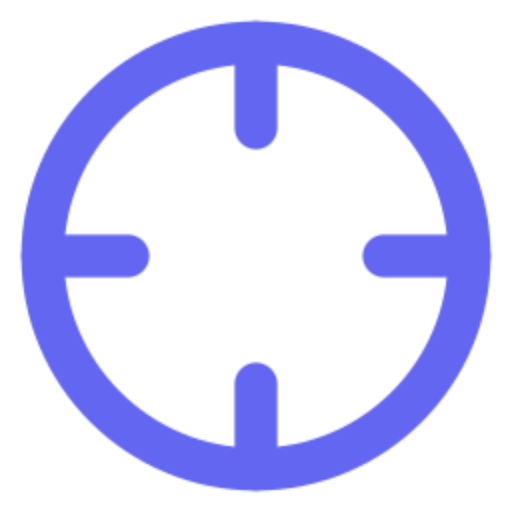
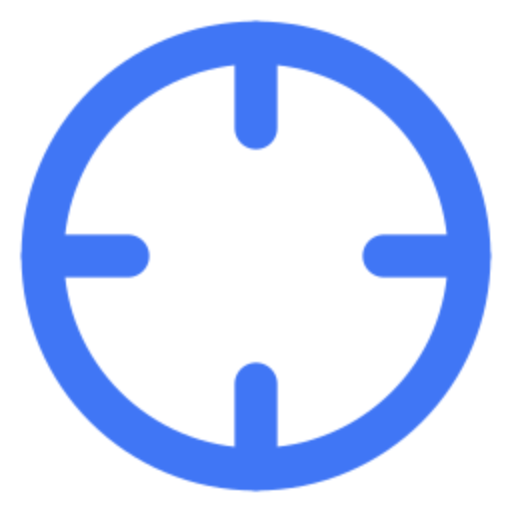
chore: update brand color from indigo to blue and upgrade lucide-react
- Update primary brand color from #6366F1 (indigo) to #4076F5 (blue)
- Upgrade lucide-react from 0.577.0 to 1.8.0
- Replace inline SVG crosshair icons with Crosshair component from lucide-react
- Regenerate all app icons with new brand color
- Update Clerk theme primary color
- Update print stylesheet to preserve new brand color
- Add test-crosshair.html for visual testing of icon variations

Changed region(s): [[0.0312, 0.0312, 0.9688, 0.9688]]

diff --git a/test-crosshair.html b/test-crosshair.html
@@ -1,0 +1,58 @@
+<!DOCTYPE html>
+<html>
+<head>
+<style>
+body { background: #000; padding: 20px; }
+.test { margin: 20px 0; }
+</style>
+</head>
+<body>
+<!-- Original with round caps -->
+<div class="test">
+  <svg width="24" height="24" viewBox="0 0 24 24" fill="none" stroke="white" stroke-width="2" stroke-linecap="round" stroke-linejoin="round">
+    <circle cx="12" cy="12" r="10"></circle>
+    <line x1="22" x2="18" y1="12" y2="12"></line>
+    <line x1="6" x2="2" y1="12" y2="12"></line>
+    <line x1="12" x2="12" y1="6" y2="2"></line>
+    <line x1="12" x2="12" y1="22" y2="18"></line>
+  </svg>
+  <span style="color: white; margin-left: 10px;">With round caps (original)</span>
+</div>
+
+<!-- With butt caps -->
+<div class="test">
+  <svg width="24" height="24" viewBox="0 0 24 24" fill="none" stroke="white" stroke-width="2" stroke-linecap="butt" stroke-linejoin="round">
+    <circle cx="12" cy="12" r="10"></circle>
+    <line x1="22" x2="18" y1="12" y2="12"></line>
+    <line x1="6" x2="2" y1="12" y2="12"></line>
+    <line x1="12" x2="12" y1="6" y2="2"></line>
+    <line x1="12" x2="12" y1="22" y2="18"></line>
+  </svg>
+  <span style="color: white; margin-left: 10px;">With butt caps</span>
+</div>
+
+<!-- With square caps -->
+<div class="test">
+  <svg width="24" height="24" viewBox="0 0 24 24" fill="none" stroke="white" stroke-width="2" stroke-linecap="square" stroke-linejoin="round">
+    <circle cx="12" cy="12" r="10"></circle>
+    <line x1="22" x2="18" y1="12" y2="12"></line>
+    <line x1="6" x2="2" y1="12" y2="12"></line>
+    <line x1="12" x2="12" y1="6" y2="2"></line>
+    <line x1="12" x2="12" y1="22" y2="18"></line>
+  </svg>
+  <span style="color: white; margin-left: 10px;">With square caps</span>
+</div>
+
+<!-- Smaller size to emphasize the effect -->
+<div class="test">
+  <svg width="12" height="12" viewBox="0 0 24 24" fill="none" stroke="white" stroke-width="2" stroke-linecap="round" stroke-linejoin="round">
+    <circle cx="12" cy="12" r="10"></circle>
+    <line x1="22" x2="18" y1="12" y2="12"></line>
+    <line x1="6" x2="2" y1="12" y2="12"></line>
+    <line x1="12" x2="12" y1="6" y2="2"></line>
+    <line x1="12" x2="12" y1="22" y2="18"></line>
+  </svg>
+  <span style="color: white; margin-left: 10px;">Size 3 (12px) with round caps</span>
+</div>
+</body>
+</html>

diff --git a/src/app/scope/[id]/print/page.tsx b/src/app/scope/[id]/print/page.tsx
@@ -3,6 +3,7 @@ import { auth } from "@clerk/nextjs/server";
 import { prisma } from "@/lib/prisma";
 import { MarkdownRenderer } from "@/components/markdown-renderer";
 import { PrintTrigger } from "@/components/print-trigger";
+import { Crosshair } from "lucide-react";
 import type { Scope } from "@/types/scope";
 import type { SessionClaims } from "@/types/auth";
 
@@ -68,23 +69,7 @@ export default async function PrintScopePage({
           {/* Document header */}
           <div className="flex items-center justify-between mb-8 pb-5 border-b border-zinc-200">
             <div className="flex items-center gap-2">
-              <svg
-                width="18"
-                height="18"
-                viewBox="0 0 24 24"
-                fill="none"
-                stroke="#6366F1"
-                strokeWidth="2"
-                strokeLinecap="round"
-                strokeLinejoin="round"
-              >
-                <circle cx="12" cy="12" r="10" />
-                <circle cx="12" cy="12" r="1" />
-                <line x1="12" y1="2" x2="12" y2="6" />
-                <line x1="12" y1="18" x2="12" y2="22" />
-                <line x1="2" y1="12" x2="6" y2="12" />
-                <line x1="18" y1="12" x2="22" y2="12" />
-              </svg>
+              <Crosshair className="size-3" />
               <span className="font-semibold text-sm tracking-tight text-zinc-900">
                 Premise
               </span>

diff --git a/src/components/logo.tsx b/src/components/logo.tsx
@@ -1,27 +1,11 @@
 import Link from "next/link";
 import { cn } from "@/lib/utils";
+import { Crosshair } from "lucide-react";
 
 export function Logo({ className }: { className?: string }) {
   return (
-    <Link href="/" className={cn("flex items-center gap-2.5 group", className)}>
-      <svg
-        width="22"
-        height="22"
-        viewBox="0 0 24 24"
-        fill="none"
-        stroke="#6366F1"
-        strokeWidth="1.75"
-        strokeLinecap="round"
-        strokeLinejoin="round"
-        className="shrink-0"
-      >
-        <circle cx="12" cy="12" r="10" />
-        <line x1="22" y1="12" x2="18" y2="12" />
-        <line x1="6" y1="12" x2="2" y2="12" />
-        <line x1="12" y1="6" x2="12" y2="2" />
-        <line x1="12" y1="18" x2="12" y2="22" />
-        <circle cx="12" cy="12" r="1.5" fill="#6366F1" stroke="none" />
-      </svg>
+    <Link href="/" className={cn("flex items-center gap-2 group", className)}>
+      <Crosshair className="size-5 text-primary" />
       <span className="font-semibold tracking-tight text-foreground text-2xl">
         Premise
       </span>

diff --git a/src/components/providers.tsx b/src/components/providers.tsx
@@ -13,7 +13,7 @@ function ClerkWithTheme({ children }: { children: React.ReactNode }) {
       appearance={{
         baseTheme: resolvedTheme === "dark" ? dark : undefined,
         variables: {
-          colorPrimary: "#6366F1",
+          colorPrimary: "#4076F5",
           borderRadius: "0.5rem",
         },
       }}

diff --git a/src/app/globals.css b/src/app/globals.css
@@ -102,8 +102,8 @@
   }
 
   /* Keep indigo for the logo */
-  .print-document svg [stroke="#6366F1"] {
-    stroke: #6366f1 !important;
+  .print-document svg [stroke="#4076F5"] {
+    stroke: #4076f5 !important;
   }
 
   /* Keep border colors */
